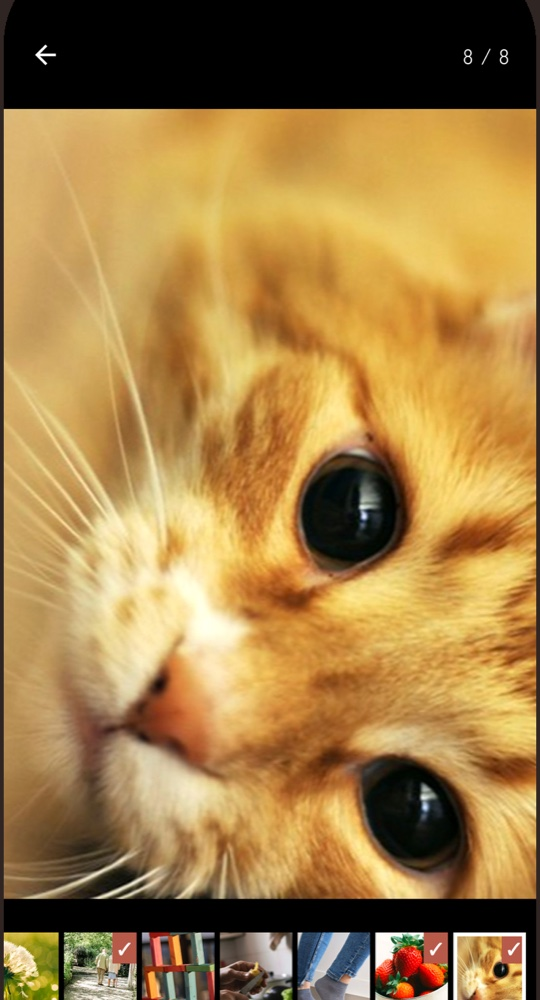
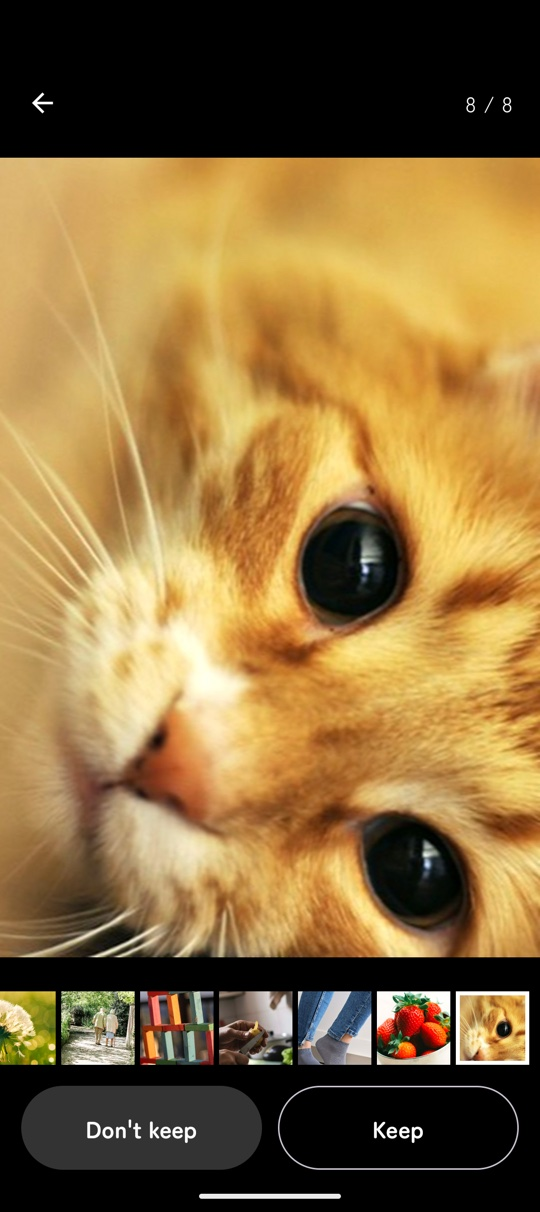
site: 困りごとに作った経緯を添え、全画面で選ぶ画面写真を撮り直す
- 困りごとの見出し下に、2歳半の娘にスマホを渡した親が作った旨の一文を追加
- 全画面で選ぶ画面の写真を、残す・残さないのボタンまで写った端末の画面写真に差し替え

Claude-Session: https://claude.ai/code/session_01QcZbJZxVqGavBADQpN8UKp

diff --git a/ja/index.html b/ja/index.html
@@ -98,6 +98,7 @@
         <div class="section__head">
           <span class="section__label">困りごと</span>
           <h2>子どもに<wbr>スマホを渡すと、<br>あとが大変。</h2>
+          <p>2&#8288;歳半の娘に<wbr>スマホを渡した、<wbr>ひとりの親の困りごとから<wbr>作りました。</p>
         </div>
         <ul class="pairs">
           <li class="pair">
@@ -188,7 +189,7 @@
               <h3>1&#8288;枚ずつ<wbr>大きく見て選べる</h3>
               <p>「残す」「残さない」をタップすると次の写真へ進みます。ピンチで拡大すれば、ブレも<span class="nobr">確かめられます。</span></p>
             </div>
-            <div class="phone"><img src="../assets/ja/screen-04.jpg" alt="猫の写真を全画面で表示し、下に残す・残さないのボタンと写真の帯が並んでいる" width="540" height="1000" loading="lazy"></div>
+            <div class="phone"><img src="../assets/ja/screen-04.jpg" alt="猫の写真を全画面で表示し、下に残す・残さないのボタンと写真の帯が並んでいる" width="540" height="1212" loading="lazy"></div>
           </li>
           <li class="feature feature--text feature--sage">
             <div>

diff --git a/index.html b/index.html
@@ -97,6 +97,7 @@
         <div class="section__head">
           <span class="section__label">The problem</span>
           <h2>Handing over your phone<br>means cleaning up after.</h2>
+          <p>Made by one parent, after handing a phone to a two-and-a-half-year-old daughter.</p>
         </div>
         <ul class="pairs">
           <li class="pair">
@@ -187,7 +188,7 @@
               <h3>Pick one big photo at a time</h3>
               <p>Tap "Keep" or "Don't keep" to move to the next photo. Pinch to zoom and check for blur.</p>
             </div>
-            <div class="phone"><img src="assets/en/screen-04.jpg" alt="A cat photo shown full screen, with Keep and Don't keep buttons and a strip of photos below" width="540" height="1000" loading="lazy"></div>
+            <div class="phone"><img src="assets/en/screen-04.jpg" alt="A cat photo shown full screen, with Keep and Don't keep buttons and a strip of photos below" width="540" height="1212" loading="lazy"></div>
           </li>
           <li class="feature feature--text feature--sage">
             <div>

diff --git a/README.md b/README.md
@@ -21,7 +21,7 @@ GitHub Pages（main のルート）で https://pashacchi.com/ に公開する。
 ```sh
 for l in ja en; do
   src=store/phone; [ $l = en ] && src=store/en/phone
-  for i in 01 03 04 06; do
+  for i in 01 03 06; do
     cp $src/$i.png /tmp/crop-$l.png
     sips -c 1370 740 --cropOffset 540 170 /tmp/crop-$l.png
     sips -Z 1000 -s format jpeg -s formatOptions 85 /tmp/crop-$l.png --out site/assets/$l/screen-$i.jpg
@@ -31,6 +31,8 @@ for l in ja en; do
   sips -Z 1000 -s format jpeg -s formatOptions 85 /tmp/crop-$l.png --out site/assets/$l/screen-02.jpg
 done
 ```
+
+`screen-04.jpg`（1枚ずつ大きく見て選ぶ画面）だけは、下のボタンまで見せるためストア用画像からの切り出しではなく、端末の画面写真（`adb exec-out screencap -p`、1080x2424）をそのまま幅 540px に縮小したもの。
 
 ## 手元で確かめる
 
